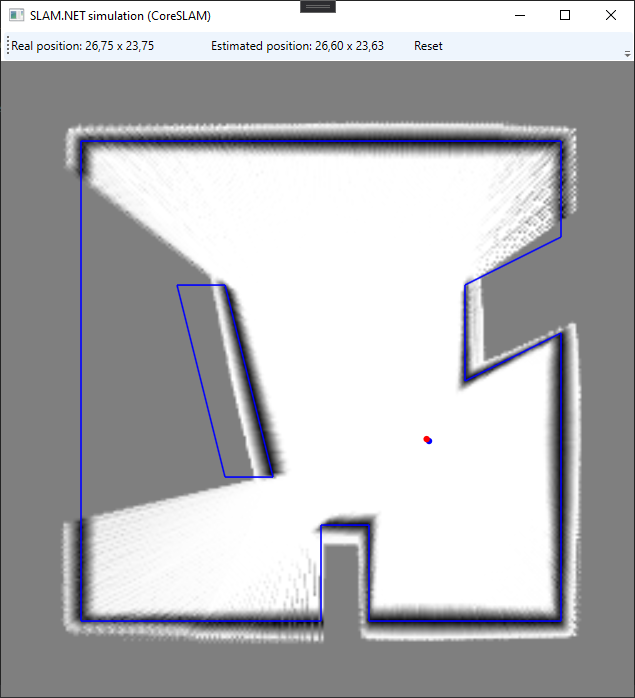
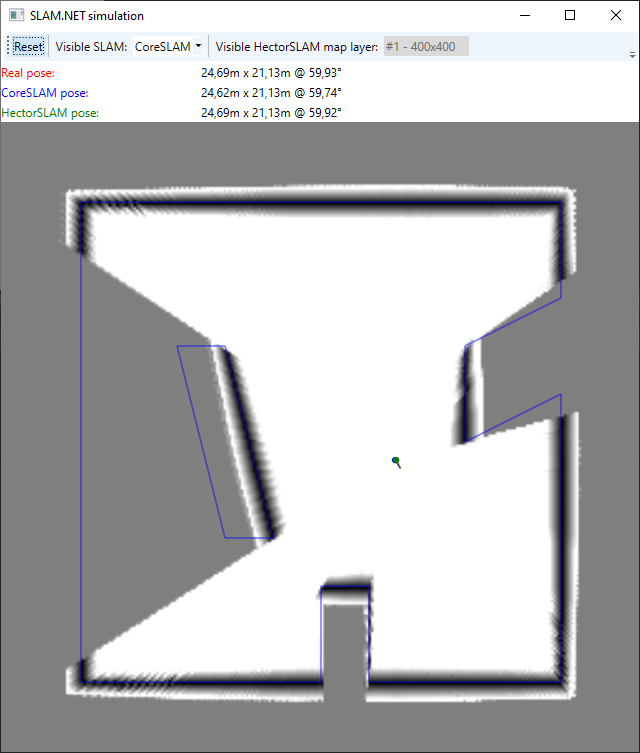
Update explanation and screenshots.

diff --git a/Simulation/MainWindow.xaml b/Simulation/MainWindow.xaml
@@ -5,7 +5,7 @@
         xmlns:mc="http://schemas.openxmlformats.org/markup-compatibility/2006"
         xmlns:local="clr-namespace:Simulation"
         mc:Ignorable="d"
-        Title="SLAM.NET simulation" Height="800" Width="700"
+        Title="SLAM.NET simulation" Height="760" Width="654"
         Closed="Window_Closed">
     <StackPanel Orientation="Vertical">
         <ToolBar>

diff --git a/Simulation/MainWindow.xaml.cs b/Simulation/MainWindow.xaml.cs
@@ -236,6 +236,7 @@ namespace Simulation
                     };
 
                     DrawArea.Children.Add(holeMapImage);
+                    VisibleHectorSLAMLayerComboBox.IsEnabled = false;
                     break;
 
                 // HectorSLAM ?
@@ -255,6 +256,7 @@ namespace Simulation
                     };
 
                     DrawArea.Children.Add(occMapImage);
+                    VisibleHectorSLAMLayerComboBox.IsEnabled = true;
                     break;
             }
 

diff --git a/README.md b/README.md
@@ -1,50 +1,71 @@
 # SLAM.NET
 
-Simultaneous Localization And Mapping (SLAM) libraries for C#
+Here are two C# Simultaneous Localization And Mapping (SLAM) implementations currently:
+ * CoreSLAM
+ * HectorSLAM
 
-Here are two C# SLAM implementations: CoreSLAM and HectorSLAM. Both use base classes from BaseSLAM library.
+Both share types and functionality from BaseSLAM library.
+
+This project grew out from a competition robot development where I used 2D laser scanner for navigation and C# .NET Core on Raspberry Pi Rasbian OS. The original algorithms are written in other languages by other people, I just rewrote them in C# and improved their performance to get lowest possible latency from lidar scan to position estimate. Main gain comes from parallelization of some parts of the algorithms. Not everything is parallelizable though.
+
+The project contains a simulation application which makes algorithms porting and tuning much simpler than using a real robot. That simulation application was actually the reason to make the code a bit more portable and flexible. So you can use the libraries here even when you don't have the actual robot hardware.
+
+I hope this project helps developing robots in C#.
 
 ## CoreSLAM
 
-This is based on the CoreSLAM algorithm by Bruno Steux, Oussama El Hamzaoui (I can't find an authentic link to it...).
-The Monte-carlo search function has been looked from some other C and C++ implementations but I did differently.
-First of all there's always fixed number of iterations to get stable speed.
-Additionally the search is done on multiple threads to get maximum performance on multi-core platform.
-It also uses [Redzen](https://www.nuget.org/packages/Redzen) fast normal distribution random number generator and the trick is to pre-calculate random numbers. So when it's time do localization, the right amount of random numbers are ready to use.
+This is based on the CoreSLAM algorithm by Bruno Steux, Oussama El Hamzaoui. [See here](https://www.researchgate.net/publication/228374722_CoreSLAM_a_SLAM_Algorithm_in_less_than_200_lines_of_C_code).
+The article doesn't contain actual Monte-Carlo search algorithm. Most implementations I found, refined the search location several times, which means the search iteration count varies, but I wanted to get steady loop times on robot, so I sticked with fixed number of search iterations. It can be chosen through CoreSLAMProcessor constuctor argument.
 
-I used it in my [Robotex](https://robotex.international) 2019 robotic competition robot "Ace Ventura" and won the "Starship animal rescure" competition, so it kind of works.
-It ran on Raspberry Pi 4 using .NET Core 3.0 and there was some CPU time left over for other tasks also. But now the code is for .NET 5.0.
-My problem with this SLAM algorithm was that even with wheel odometry the map tilted and slided over time.
-However, it may have been just a configuration issue and for that reason I created a simulation application to quickly try out different parameters (hole width, etc.).
+Performance increase comes from using the CoreSLAM "distance" calculation algoritm from several threads. It's straightforward - all threads search for best position and the best of each thread will eventually be the final position estimate. [Redzen](https://www.nuget.org/packages/Redzen) fast normal distribution random number generator is used and to further minimize latency from scan to localisation, the random numbers are pre-buffered for each scan by the same threads which do the search. .NET Parallel namespace functionality isn't used here because due to threads spawning overhead or something, it didn't work as well as when re-using same old threads.
+
+I used CoreSLAM in my [Robotex](https://robotex.international) 2019 robotic competition robot "Ace Ventura" and won the "Starship animal rescure" competition, so it kind of works. My problem with CoreSLAM was that even with wheel odometry the map tilted and shifted over time, mostly just a little bit, but sometimes a lot.
 
 Here's the picture of the CoreSLAM functioning in simulation:
 ![Simulation](simulation_coreslam.png)
 
-The grayscale map is the hole map. Blue edges are true walls. Blue circle is true position, red is estimated position.
-When you compile and run simulation, use left mouse button to drag the real position and see how the hole map estimator works.
-If you click further than SigmaXY the estimator may fail to find correct position.
-There is artificial noise added to the "lidar" measurements.
-Parameters tuning is in the code, no UI features for that.
-
-The lidar ray tracing is done with .NET variant of [Box2D](https://github.com/benukhanov/box2d-netstandard).
+The grayscale map is the hole map. The darker the color, the "deeper" the hole. The blurrier the hole, the "wider" the hole. See simulator chapter for further explanation.
 
 ## HectorSLAM
 
 This is the port of [HectorSLAM](https://github.com/tu-darmstadt-ros-pkg/hector_slam) algorithm from C++ to C#.
 HectorSLAM is originally a ROS package and based on what I've read and seen it looks much more stable than CoreSLAM.
-Since I'm not very fond of C++ boilerplate code (getters and setters) I started porting it and actually it went much smaller in lines of code.
-Actually there's quite a bit of unused functions also, so it's possible to strip it down even further.
-The code uses .NET System.Numerics namespace so there's no external dependency.
+At first it seemed to be big job to get it over to C#, but there was a lot of C++ boilerplate code, some dead code and debug code, so in the end it got much smaller and understandable. ROS package used Eigen library which I switched over to .NET System.Numerics, so there are no external dependencies. One minor disadvantage: .NET doesn't have 3x3 matrixes so 4x4 matrixes are used.
 
-In the simulator it works fine as long as the robot (mouse cursor) movement speed per lidar scan is less than the physical pixels size of coarsest map.
+In the simulator it works fine as long as the linear and angular movement speeds are slow.
+Linear movement speed per lidar scan has to be less than the physical pixels size of coarsest map.
 E.g. if the resolution is 0.05m, map size is 400x400, map levels is 3, scan rate is 7 scans/sec then max speed must be:
   (400 * 0.05m) / 2<sup>3</sup> => 2.5 m/scan => 0,35 m/s.
-I haven't yet tried in real world.
+When this speed is exceeded, the algorithm loses the position and doesn't recover.
+I haven't calculated the maximum angular movement speed. It would require understanding inner logic of the algorithm a bit more. But it is not very large either, based on testing it seems to be around 20 degrees per scan cycle.
 
 Here's the picture of the HectorSLAM functioning in simulation:
 ![Simulation](simulation_hectorslam.png)
 
-----
+## Simulator
+
+A few words about simulator also. It is a WPF application which use [Box2D](https://github.com/benukhanov/box2d-netstandard) physics engine for 2D lidar ray distance measurement.
+
+At one time either CoreSLAM or HectorSLAM map can be viewed. HectorSLAM uses several layers, so there's sub-option to pick one of them.
+Regardless of what view it is, both SLAM algorithms execute in parallel. Blue walls on top of the map show the real walls.
+
+Dots and small lines show the poses. (Pose = position + direction). Dot is the position and line is the direction.
+Color coding of poses and values on toolbar:
+ * Red - Real pose 
+ * Blue - CoreSLAM pose
+ * Green - HectorSLAM pose
+
+Lidar pose can be changed with mouse:
+ * Left click to change position (X and Y).
+ * Right click to change direction (Z).
+
+To simulate real movement, rather than "jump" from point to point, drag the mouse cursor by holding left button down.
+To rotate (change direction) slowly, click right mouse button far away from the dot.
+Mouse wheel zooms the map in and out. It is easier to move maximizing window and zooming in.
+
+When pose estimator loses it's real location, click "Reset" button on the top left toolbar. It is very easy to lose the location in simulator by click too far, but keep in mind that the simulator area is 40x40m, so it would have to be quite fast robot which would actually make such a big leap in real life.
+
+The size of the area, scan rate, etc. are all constants, constructor arguments or properties in the MainWindow code which can be changed and tried when rebuilding the application.
 
 *PS.*
 
